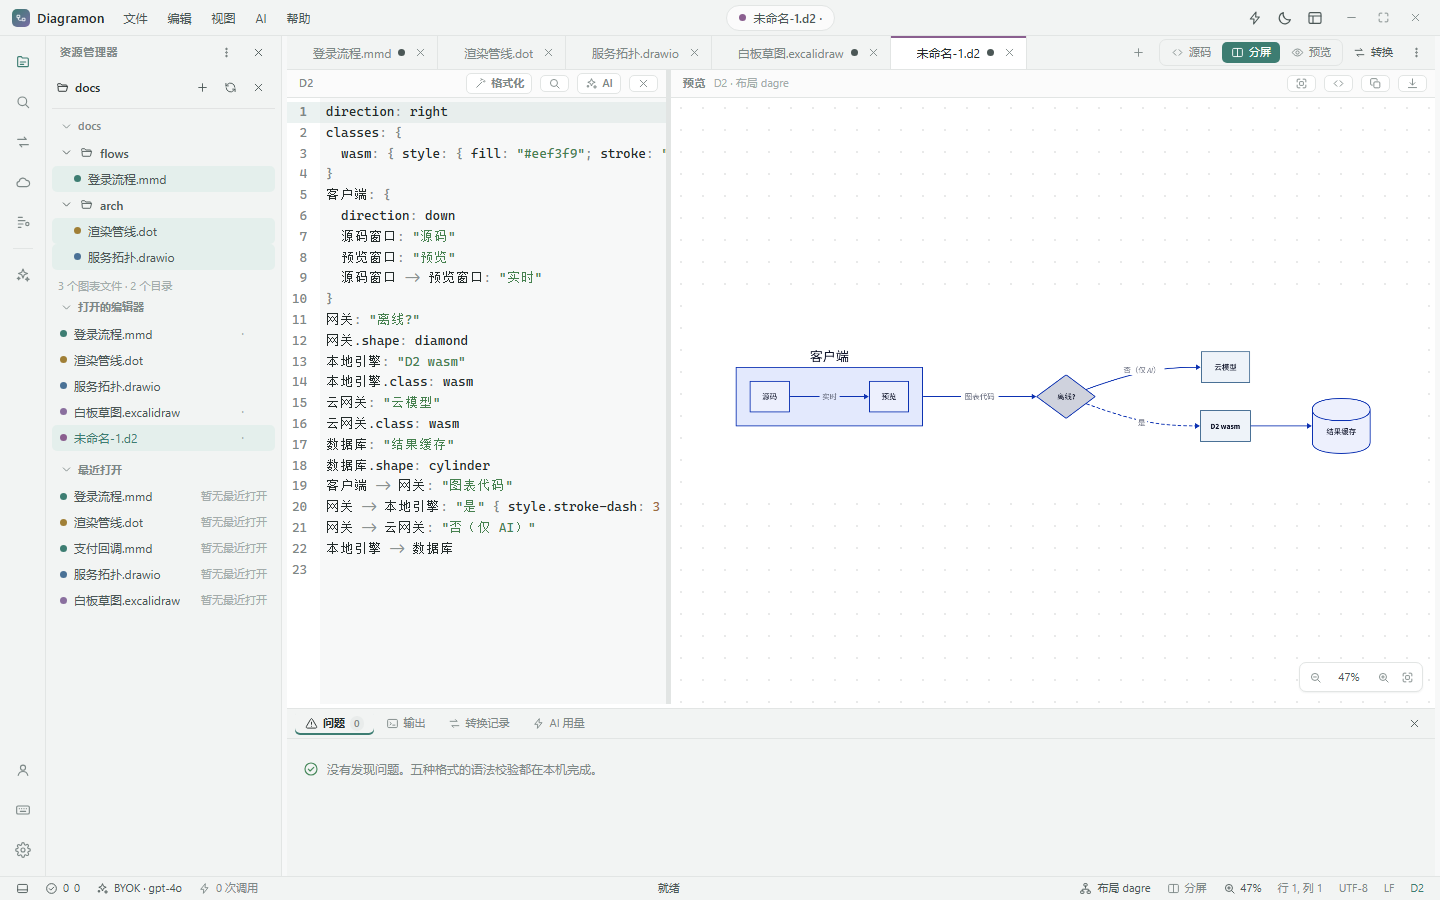
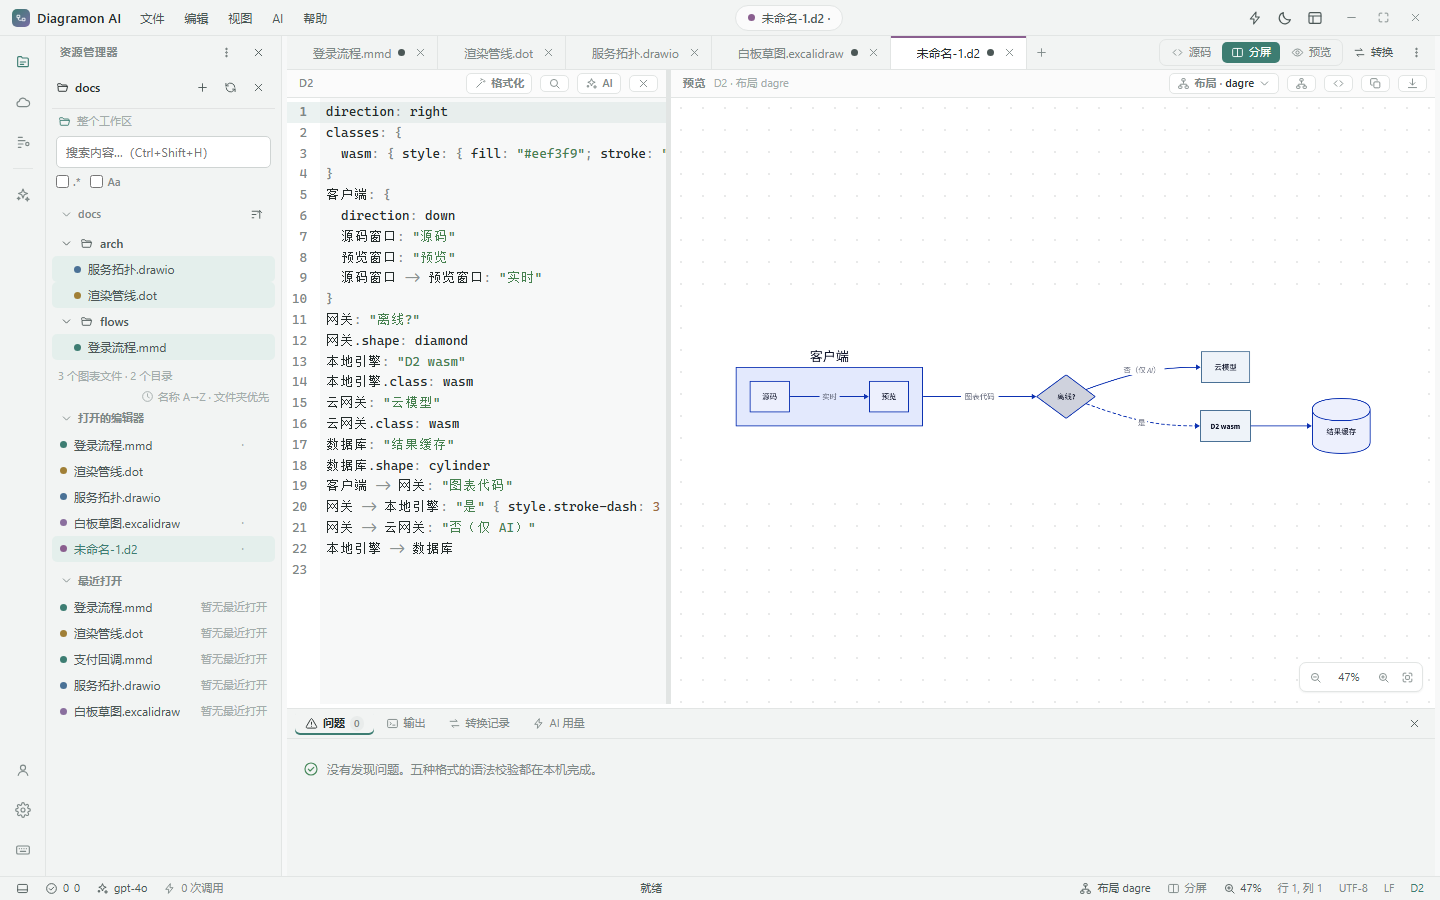
docs(readme): 更新到 3.11.2 的特性与界面截图

diff --git a/README.md b/README.md
@@ -14,7 +14,7 @@ no external request is ever made**.
 Code or images reach a model only when you actively use AI, and then only the endpoint you chose
 (BYOK talks straight to your own provider, membership goes through the Diagramon cloud gateway).
 
-Version **3.8.7** · Official website <https://www.diagramon.com>
+Version **3.11.2** · Official website <https://www.diagramon.com>
 
 ## Screenshots
 
@@ -39,25 +39,32 @@ Version **3.8.7** · Official website <https://www.diagramon.com>
 ### Editing
 - **Multi-tab** — several formats side by side in one window; when tabs overflow they scroll into
   view, respond to the wheel for horizontal scrolling and fade at both ends, and `Ctrl+Tab` /
-  `Ctrl+PgUp` / `Ctrl+PgDn` cycle through them
-- **Syntax checking with inline errors** — only problems that can actually be *proven* (unbalanced
-  brackets/quotes/tags, JSON that fails to parse) are reported, never style guesses; the Problems panel
-  aggregates every open document and labels each row with its file name and line/column
+  `Ctrl+Shift+Tab` / `Ctrl+PgUp` / `Ctrl+PgDn` cycle through them
+- **Syntax checking, engine-first** — Mermaid and Graphviz DOT problems are parsed by the **graphics
+  engines themselves**, which report the real line (Mermaid also the column); D2 is compiled by its
+  bundled wasm and drawio / Excalidraw get structural validation. The line scanner still proves
+  unbalanced brackets/quotes/tags and unparseable JSON, but an engine finding wins on the same line.
+  When an engine is unavailable or the document is very large (over 5,000 lines) validation is
+  explicitly marked as degraded — never silently reported as "passed"
 - **Mermaid engine 10.9.5 → 12.2.0** — picks up every diagram type and syntax improvement upstream added
   since then, with render output aligned to mermaid.live
-- **Errors point at the line and column** — the Problems panel prints "line N, column M" and its button
-  switches to the source view with the caret pinned to that spot; the offending line gets a red squiggle
-  in the editor (gone the moment it is fixed), and the same location — column included — is fed to the AI
-  repair loop
+- **Errors point at the line and column** — the Problems panel prints "line N, column M" and clicking a
+  row switches to the source view with the caret pinned to that exact spot; the offending line gets a
+  red squiggle in the editor (gone the moment it is fixed), and the same location — column included — is
+  fed to the AI repair loop
 - **Outline and current scope** — nodes and the `subgraph` / `cluster` / D2 container tree are derived
-  from the body; the status bar shows the enclosing subgraph/cluster/container next to the caret
-  position (and nowhere else, so no information is duplicated)
+  from the body; clicking an entry jumps the caret to that element and scrolls it into view, while
+  canvas documents (drawio / Excalidraw) get a group/node outline that selects and centres the item on
+  the canvas. The status bar shows the enclosing subgraph/cluster/container next to the caret position
+  (and nowhere else, so no information is duplicated)
 - **Find & replace**, undo/redo, context menu, command palette (`Ctrl+Shift+P` or `F1`)
 - **Tab behaves like mainstream editors** — with an empty selection Tab fills spaces to the next tab stop
   **at the caret** (at the line start it still inserts a full 4-space unit), a selection is indented as a
   block and `Shift+Tab` outdents; one key press is still one undo step
-- **Large-document guard rail** — past a line/byte threshold the preview asks "render anyway?" instead of
-  silently dragging the engine down (the threshold lives in exactly one place, pushed down from Rust)
+- **Large-document guard rails** — opening or saving a diagram beyond **400 KB / 5,000 lines** asks once
+  per session ("this diagram is large; preview may stall for a few seconds") instead of surprising you
+  later, and past the render threshold the preview asks "render anyway?" rather than silently dragging
+  the engine down (both thresholds live in exactly one place, pushed down from Rust)
 
 ### Preview and export
 - **Three text modes** — source / split / preview (`Ctrl+1/2/3`); the source pane can be hidden entirely
@@ -113,7 +120,7 @@ Version **3.8.7** · Official website <https://www.diagramon.com>
 - **Offline by construction** — a pruned drawio runtime and a locally bundled Excalidraw ship inside the
   installer; zero external requests
 
-### Format conversion (Conversion Center)
+### Format conversion
 - **Directions** — `Mermaid → DOT` / `Mermaid → D2` / `DOT → D2` (implemented in pure Rust),
   `Mermaid → drawio` and `Mermaid → Excalidraw` (handed to each engine's own parser instead of
   reimplementing one), and `D2 → drawio` (D2's own wasm computes the geometry in the page first, then it
@@ -124,6 +131,19 @@ Version **3.8.7** · Official website <https://www.diagramon.com>
 - **One-way semantics** — the product opens in a new tab and the original file's bytes never change
 - **Lossy conversions say so** — the result carries `notes` listing exactly what did not migrate
   (e.g. `subgraph → cluster` drops styling); the dialog shows them, nothing is dropped silently
+- **Post-conversion reconciliation** — after a conversion the app counts nodes and edges on both sides
+  and reports "N nodes / M edges missing". A shortfall on a text target counts as failure (and can
+  enter the AI repair loop); drawio / Excalidraw shortfalls are engine expressiveness differences and
+  only warn. If either side cannot be counted, it says exactly that instead of pretending the counts match
+- **AI-enhanced conversion (optional, off by default)** — the entry appears only when the result is
+  lossy or fails validation, a model is configured and the target is a text format. It does one initial
+  fix plus up to 3 correction rounds ("correction N, M left"), stops early after two identical errors,
+  and shows what will be sent on first use. Success opens a new tab; failure keeps the local result and
+  says so. Every call counts toward usage
+- **`Mermaid → drawio` can re-layout with ELK** — an optional checkbox hands layout to drawio's own ELK
+  layered engine: fewer crossings and no giant detours on back edges. Off by default (identical to
+  before); the conversion record states whether ELK actually ran, including when it was skipped because
+  the source already has a `config` block or is not a flowchart
 - **Unavailable directions are still listed, with a stated reason**, rather than hidden for you to guess
 - **The Mermaid details that used to break the output are handled** — edge endpoint markers are honoured
   (`<-->` becomes DOT's `dir=both` / D2's `<->`), markers the target format has no shape for
@@ -133,33 +153,68 @@ Version **3.8.7** · Official website <https://www.diagramon.com>
 - **`Mermaid → Excalidraw` inherits the document's look** — when the source document picked classic /
   neo / handDrawn in the top bar, the converted Excalidraw is rendered with that same look; the
   conversion record states what was inherited and that the layout was re-done with the engine's defaults
+- **Subgraph diagrams stay editable after `Mermaid → Excalidraw`** — a diagram with `subgraph` boxes is
+  no longer flattened into one static image: it comes back as real frames, arrows and text that can be
+  dragged and edited. Inline `:::class` styles convert too, and rounded labels containing parentheses
+  (e.g. an IP) no longer shred the drawio import
 
 ### Workspace and files
 - **Open a folder** — explorer tree (only extensions this app knows; `.git` / `node_modules` / `target`
-  are skipped)
-- **Whole-workspace search** (`Ctrl+Shift+H`) — streamed from Rust with line/column, click to jump,
-  cancellable
+  are skipped), with **sorting by name or last-modified time** in either direction and a **folders-first**
+  toggle. Time mode shows each row's timestamp (directories use the newest item in their subtree); Chinese
+  names sort by pinyin and numbers compare numerically ("diagram 2" before "diagram 10"). The choice is
+  saved with your settings
+- **Whole-workspace search** (`Ctrl+Shift+H` or `Alt+2`) — the explorer's header search box replaces the
+  tree while the query is non-empty (clear it to get the tree back); results stream from Rust with
+  line/column, click to jump, and the search is cancellable
 - **File watching** — external changes are picked up automatically; when they collide with unsaved local
   edits you get a banner to choose "use disk version / keep mine" (a state that needs a decision is not a
   toast that disappears on its own)
 - **Single instance + file associations** — double-clicking a diagram file opens it in the running window
   instead of starting another process
-- **Autosave and crash recovery** — autosave is owned by Rust (a background thread, not a front-end
-  timer); unsaved documents have a draft store where one corrupt file cannot take down the others
+- **Autosave is off by default** — saving is Ctrl+S / save-as unless you turn autosave on in
+  **Settings → Editor** (delay 500–60,000 ms). When on, it is owned by Rust (a background thread, not a
+  front-end timer); unsaved documents have a draft store where one corrupt file cannot take down the others
 - **Path guarding** — create/rename/delete inside a workspace always go through root validation and
   reject `..` and absolute paths; "save as / export" uses the system dialog (that is the user's own
   authorization), and can be tightened with "only read and write inside the workspace"
 
 ### AI assistant
-- **Four tabs** — generate (natural language → diagram code for the current format), vision
-  (image → code), review (ask for changes to the current document) and explain (a read-only reading of
-  the current diagram: what it says, the main path, module boundaries, risks — no code, no edits)
+- **One timeline, four intents** — generate (natural language → diagram code), vision (image → code),
+  review (ask for changes to the current document) and explain (a read-only reading of the current
+  diagram) no longer own separate tabs: a document has **one chronological conversation**, so review and
+  retry face a single history. Each message carries an intent; a **four-stop slider** shows it before you
+  send, click any stop to override, click "Auto" to return, and the override clears after sending so the
+  next sentence is classified anew
+- **Intent classification is optional — and official for members** — Settings → AI offers
+  `Auto / Official / Custom / Off`. Signed-in members use Diagramon's **official SystemOne** service by
+  default (the login token is the credential; no local key), while Custom points at your own
+  SystemOne / Jev-compatible endpoint. Failures, signed-out state and low confidence all fall back to
+  local rules and never block sending; "Auto-detected 86%" appears only with an actual verdict. No
+  request is made while the panel is collapsed, concurrent classifications of the same sentence share
+  one request, and changing the endpoint/model/thresholds invalidates old verdicts. Send is locked while
+  classification is in flight, so a double-click cannot fire the same sentence twice
+- **Output format selector** — Follow current / Mermaid / Graphviz DOT / D2 / drawio / Excalidraw. When
+  the target differs from the current document, applying opens a new tab in that format; drawio and
+  Excalidraw are converted from Mermaid by the carrier rather than asking the model to write canvas
+  XML/JSON
+- **Explain stays read-only and rendered** — its replies are Markdown by default (headings, lists, bold,
+  inline code, quotes, tables and links), stream as they are generated, and each reply can toggle between
+  preview and source. Model output is treated as plain text: inline HTML/scripts are never executed,
+  `javascript:` links are not clickable and images keep only their alt text. No code card, no Apply
+  button, and the document is never written
 - **Two kinds of credentials, kept visually separate** — the cloud gateway (membership; the credential is
   the current login token, so you fill in nothing) and local BYOK (OpenAI-compatible / Ollama / custom,
-  where you supply the key) are shown as groups, never mixed
-- **Two ways into vision** — pick an image file, or **drag out a region of the screen** (freeze-frame plus
-  a borderless overlay, so multi-monitor and DPI scaling never come into play); the image is compressed to
-  ≤1568px in memory and never written to disk
+  where you supply the key) are shown as groups, never mixed. The AI page in Settings is split into
+  **Text & image models / Intent / Behavior / Memory**, so the official-vs-custom split is visible at a
+  glance. BYOK endpoints on `opencode.ai` automatically carry a stable `x-opencode-session` header (and a
+  dedicated User-Agent), and `max_tokens` is left empty by default so strict upstreams are not handed an
+  out-of-range limit
+- **Vision has four entry points** — pick an image file, **paste with `Ctrl+V`**, **drag files into the
+  dialog**, or **drag out a region of the screen** (freeze-frame plus a borderless overlay, so
+  multi-monitor and DPI scaling never come into play). Up to **two images** can be attached and compared;
+  both thumbnails stay in the chat. Images are compressed to ≤1568px **in memory** and are never written
+  to disk or into the conversation record
 - **External files work as context too** — use the **folder button** in the row above the AI input
   (multi-select), or drop a file **directly onto the AI panel**: up to 8 files, 256 KiB each (larger
   ones are cut on a character boundary and labelled), UTF-8 text only (binary or other encodings
@@ -168,6 +223,15 @@ Version **3.8.7** · Official website <https://www.diagramon.com>
 - **The AI only fixes what the AI wrote** — the render-failure auto-fix fires only while the body is
   still exactly the version the AI applied; syntax errors you introduce yourself are never rewritten
   behind your back (they are still reported in the preview and the problems panel)
+- **Review works on the whole document** — review messages send the **entire current source** and ask
+  for the **complete modified source** back (unchanged parts preserved), so "Apply" can never leave half
+  a diagram. "Ask AI to edit this selection" still sends the whole document and only tells the model
+  which part to change; Apply takes the **last non-empty fenced code block**, so a corrected second
+  version is used instead of the first draft
+- **Message-level operations** — retry (regenerate), edit-and-resend and delete a turn without clearing
+  the conversation; each user and assistant message has a copy icon (copy your input / copy the reply's
+  source), styled as part of the same action group as edit and delete. A retry records `Retry-Of`
+  attribution on the server ledger
 - **Usage is labelled with its source** — only tokens the provider actually reports are accumulated;
   anything unreported shows `—` with an explanation, never `0` and never a local estimate
 - **It actually remembers the conversation** — previous turns are carried into the next request
@@ -196,9 +260,9 @@ Version **3.8.7** · Official website <https://www.diagramon.com>
   produced only reasoning says why and keeps it there. The reasoning is **stored with the
   conversation** (it is billed output), so after a restart expanding the block shows the same text
 - **File open history** — the welcome page lists 5 recent files and its **More…** button opens the
-  complete history (up to 50 entries kept locally, filterable by name or path; click a row to open it —
-  a file already in a tab is focused instead). `Ctrl+R` and **File → Open recent → More…** open this
-  same window
+  complete history (**unlimited**, lazily paged inside the window, filterable by name or path; click a
+  row to open it — a file already in a tab is focused instead). `Ctrl+R` and **File → Open recent →
+  Open history…** open this same window
 - **Long-term memory (optional)** — the AI can propose to remember your preferences and terminology
   (colour scheme, default flow direction, naming habits…). Proposals land as **pending** and only take
   effect once you confirm them; you can also edit them by hand, and the whole thing can be switched off
@@ -225,6 +289,9 @@ Version **3.8.7** · Official website <https://www.diagramon.com>
   credit balance** (measured in *credits*, deliberately not anchored to any currency)
 - **Cloud documents** — folder tree (empty folders included), filter, open; the **save to cloud** dialog
   lets you pick a target folder and create a subfolder
+- **Gateway model tiers** — the model picker includes an **auto** tier that lets the server route by
+  capability and image-input needs; gateway requests also carry `scene` / `retry_of` attribution, which
+  BYOK requests never do
 - **Login is a stop on the way, not the destination** — starting from "save to cloud" continues into the
   save dialog once you are signed in
 - **Registration is not done in the client** — the footer only offers "register on the website", which
@@ -243,7 +310,12 @@ Version **3.8.7** · Official website <https://www.diagramon.com>
   fails the whole acceptance run)
 - **Built-in auto-update** — minisign signature verification; "up to date", "new version available"
   (download → restart) and "error" are three distinct outcomes, and a failed check is never reported as
-  "up to date"
+  "up to date". The check asks `www.diagramon.com/updates/…` first, which routes mainland China to the
+  Gitee mirror and everyone else to GitHub; if that service is unreachable it falls back to GitHub
+  without losing the existing update path
+- **AI settings are grouped** — Text & image models / Intent / Behavior / Memory, so the official
+  SystemOne mode, custom endpoints and behavior switches are visible at a glance instead of buried in one
+  long form
 - **Close to tray (opt-in)** — turned on in Settings → Appearance, ✕ only hides the window; the tray icon
   brings it back, or quits from its menu. The icon is always present, so you can quit under either setting
 - **Default Mermaid look** — a global fallback used when a document has no look of its own (priority:
@@ -385,7 +457,9 @@ tools/               asset fetching (drawio / excalidraw / graphviz / mermaid / 
 | `Ctrl+R` | Recent files |
 | `Ctrl+W` / `Ctrl+Q` | Close current tab / quit |
 | `Ctrl+F` | Find and replace |
+| `Shift+Alt+F` | Format the source |
 | `Ctrl+Shift+H` | Search the whole workspace |
+| `Alt+Shift+C` | Open the conversion dialog |
 | `Ctrl+Shift+P` / `F1` | Command palette |
 | `Ctrl+I` / `Ctrl+Shift+I` / `Ctrl+Shift+E` | AI generate / AI vision / AI explain |
 | `Ctrl+Shift+C` | Copy the active view as an image |
@@ -393,9 +467,11 @@ tools/               asset fetching (drawio / excalidraw / graphviz / mermaid / 
 | `Ctrl+Shift+F` | Zen mode (full-screen editing) |
 | `Ctrl+1` / `Ctrl+2` / `Ctrl+3` | Source / split / preview |
 | `Ctrl+0` / `Ctrl+=` / `Ctrl+-` | Fit to view / zoom in / zoom out |
-| `Ctrl+T` | Toggle light and dark theme |
-| `Ctrl+Tab` / `Ctrl+PgUp` / `Ctrl+PgDn` | Cycle through tabs |
-| `Alt+1` … `Alt+5` | Sidebar views: explorer / search / convert / cloud documents / outline |
+| `Ctrl+K Ctrl+T` | Toggle light and dark theme |
+| `Ctrl+K Ctrl+S` | Shortcut sheet |
+| `Ctrl+Tab` / `Ctrl+Shift+Tab` / `Ctrl+PgUp` / `Ctrl+PgDn` | Cycle through tabs |
+| `Alt+1` / `Alt+4` / `Alt+5` | Sidebar views: explorer / cloud documents / outline |
+| `Alt+2` | Focus the explorer's search box |
 
 Inside the editor: `Ctrl+Z` undo, `Ctrl+Y` redo, `Ctrl+X/C/V/A` cut, copy, paste and select all. When the
 preview or a canvas has focus those application-level shortcuts are intercepted by the carrier page and
